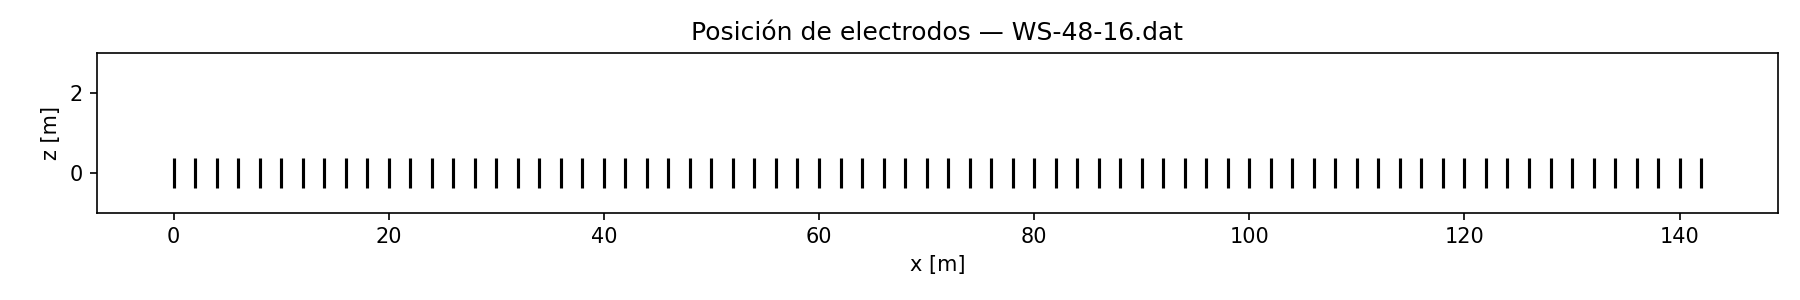
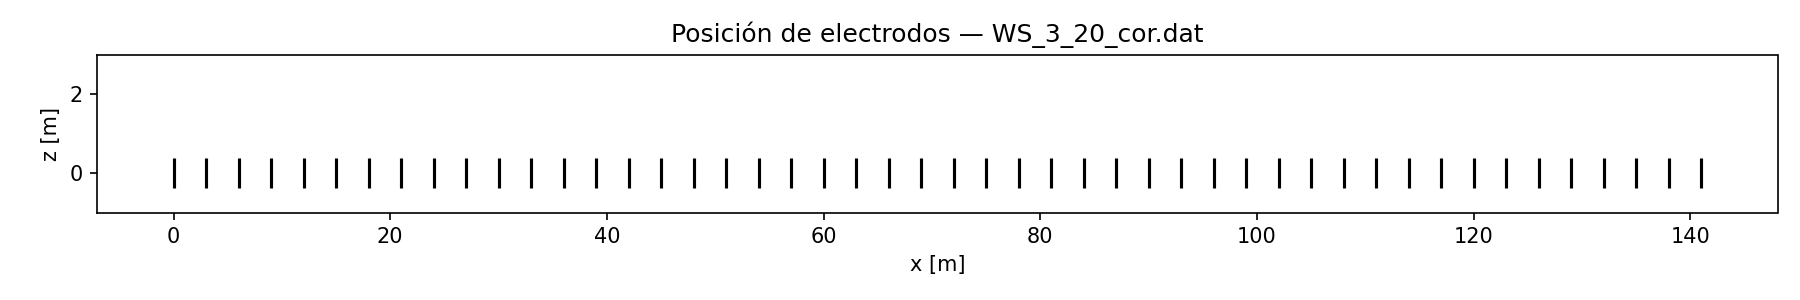
cambiar archivo de entrada

diff --git a/src/inversion.py b/src/inversion.py
@@ -1,10 +1,11 @@
 """
-Inversión ERT completa para archivo WS-48-16.dat
+Inversión ERT completa para archivo WS_3_20_cor.dat
 Configuración Wenner-Schlumberger con roll-along
 Sin topografía (z = 0 para todos los electrodos)
+Incluye datos de chargeability (IP) en mV/V
 
 Flujo:
-    1. Parseo del .dat  → coordenadas absolutas + rhoa
+    1. Parseo del .dat  → coordenadas absolutas + rhoa + chargeability
     2. Construcción del DataContainer de pyGIMLi
     3. Factores geométricos (analíticos, sin topo)
     4. Estimación de errores
@@ -25,7 +26,7 @@ from pygimli.physics import ert
 # CONFIGURACIÓN
 # ---------------------------------------------------------------------------
 
-DAT_FILE = os.path.join(os.path.dirname(__file__), '../data/greenland/WS-48-16.dat')
+DAT_FILE = os.path.join(os.path.dirname(__file__), '../data/greenland/WS_3_20_cor.dat')
 IMG_DIR  = os.path.join(os.path.dirname(__file__), '../img')
 os.makedirs(IMG_DIR, exist_ok=True)
 
@@ -58,14 +59,18 @@ def parse_dat(filepath):
         4: descripción del tipo de dato
         5: tipo (0 = rhoa, 1 = resistencia)
         6: número de mediciones
-        7-8: parámetros adicionales
+        7: parámetro adicional
+        8: flag de chargeability (0 = sin IP, 1 = con IP en mV/V)
 
-    Estructura de cada línea de datos (a partir de línea 9):
+    Si hay chargeability (línea 8 == 1), hay 3 líneas extra de cabecera:
+        9:  nombre del parámetro IP (e.g. "Chargeability")
+        10: unidad (e.g. "mV/V")
+        11: ventana de integración (e.g. "0.06,0.5")
+    Y los datos empiezan en línea 12 con 11 campos:
+        4  x_A  z_A  x_B  z_B  x_M  z_M  x_N  z_N  rhoa  chargeability
+
+    Sin chargeability los datos empiezan en línea 9 con 10 campos:
         4  x_A  z_A  x_B  z_B  x_M  z_M  x_N  z_N  valor
-
-        Donde A, B = electrodos de corriente
-              M, N = electrodos de potencial
-              valor = rhoa [Ohm·m] si tipo==0, o R [Ohm] si tipo==1
     """
     print(f"\n{'='*60}")
     print(f"  Leyendo: {os.path.basename(filepath)}")
@@ -74,21 +79,27 @@ def parse_dat(filepath):
     with open(filepath, 'r', encoding='latin-1') as f:
         lines = [l.strip() for l in f.readlines()]
 
-    meas_type = int(lines[5])   # 0=rhoa, 1=resistencia
-    n_data    = int(lines[6])
+    meas_type   = int(lines[5])   # 0=rhoa, 1=resistencia
+    n_data      = int(lines[6])
+    has_ip      = int(lines[8])   # 0=sin IP, 1=con chargeability
+    data_start  = 12 if has_ip else 9
+    n_fields    = 11 if has_ip else 10
+
     print(f"  Tipo de dato   : {'resistividad aparente [Ohm·m]' if meas_type == 0 else 'resistencia [Ohm]'}")
     print(f"  Mediciones     : {n_data}")
+    print(f"  Chargeability  : {'sí (mV/V)' if has_ip else 'no'}")
 
     raw_meas = []
-    for line in lines[9:]:
+    for line in lines[data_start:]:
         parts = line.split()
-        if len(parts) == 10 and parts[0] == '4':
+        if len(parts) == n_fields and parts[0] == '4':
             xA, zA = float(parts[1]), float(parts[2])
             xB, zB = float(parts[3]), float(parts[4])
             xM, zM = float(parts[5]), float(parts[6])
             xN, zN = float(parts[7]), float(parts[8])
             val     = float(parts[9])
-            raw_meas.append(((xA, zA), (xB, zB), (xM, zM), (xN, zN), val))
+            ip      = float(parts[10]) if has_ip else None
+            raw_meas.append(((xA, zA), (xB, zB), (xM, zM), (xN, zN), val, ip))
 
     if len(raw_meas) != n_data:
         print(f"  ADVERTENCIA: se esperaban {n_data} mediciones pero se parsearon {len(raw_meas)}")
@@ -109,7 +120,7 @@ def parse_dat(filepath):
 
     # Convertir coordenadas a índices 0-based
     meas = []
-    for (pA, pB, pM, pN, val) in raw_meas:
+    for (pA, pB, pM, pN, val, ip) in raw_meas:
         meas.append({
             'a':    pos_to_idx[pA],
             'b':    pos_to_idx[pB],
@@ -117,16 +128,17 @@ def parse_dat(filepath):
             'n':    pos_to_idx[pN],
             'rhoa': val if meas_type == 0 else None,
             'r':    val if meas_type == 1 else None,
+            'ip':   ip,
         })
 
-    return sensors, meas, meas_type
+    return sensors, meas, meas_type, has_ip
 
 
 # ---------------------------------------------------------------------------
 # 2. CONSTRUCCIÓN DEL DataContainer
 # ---------------------------------------------------------------------------
 
-def build_data_container(sensors, meas, meas_type):
+def build_data_container(sensors, meas, meas_type, has_ip=False):
     """
     Construye un pg.DataContainer con sensores e índices de electrodos.
 
@@ -178,6 +190,11 @@ def build_data_container(sensors, meas, meas_type):
         r_arr = np.array([m['r'] for m in meas], dtype=float)
         data['r'] = pg.Vector(r_arr)
 
+    # Cargar chargeability si está presente
+    if has_ip:
+        ip_arr = np.array([m['ip'] for m in meas], dtype=float)
+        data['ip'] = pg.Vector(ip_arr)
+
     # Marcar como válidas las mediciones con valor positivo
     if meas_type == 0:
         data.markValid(data['rhoa'] > 0)
@@ -195,10 +212,10 @@ def build_data_container(sensors, meas, meas_type):
 if __name__ == '__main__':
 
     # --- 1. Parseo ---
-    sensors, meas, meas_type = parse_dat(DAT_FILE)
+    sensors, meas, meas_type, has_ip = parse_dat(DAT_FILE)
 
     # --- 2. DataContainer ---
-    data = build_data_container(sensors, meas, meas_type)
+    data = build_data_container(sensors, meas, meas_type, has_ip)
 
     # --- 3. Visualización inicial: posición de electrodos ---
     fig, ax = plt.subplots(figsize=(12, 2))
@@ -291,7 +308,7 @@ if __name__ == '__main__':
         cMap     = 'Spectral_r',
         logScale = True,
     )
-    ax.set_title('Modelo de resistividad — WS-48-16')
+    ax.set_title('Modelo de resistividad — WS_3_20_cor')
     ax.set_xlabel('Distancia [m]')
     ax.set_ylabel('Profundidad [m]')
     plt.tight_layout()

diff --git a/CLAUDE.md b/CLAUDE.md
@@ -10,8 +10,9 @@ El archivo de datos del ejemplo y el archivo de datos de trabajo difieren en su 
 
 El script de ejemplo de partida esta en examples/plot_02_ert_field_data.py
 El archivo con datos que espera este ejemplo es: examples/slagdump.ohm
-El archivo de trabajo sobre el que hay que editar, el responsable de hacer la adaptacion es src/inversion_WS48.py
-El archivo con datos para el script de trabajo esta en data/greenland/WS-48-16.dat
+El archivo de trabajo sobre el que hay que editar, el responsable de hacer la adaptacion es src/inversion.py
+El archivo con datos para el script de trabajo esta en data/greenland/WS_3_20_cor.dat
+Este archivo incluye datos de chargeability (IP) en mV/V además de resistividad aparente
 
 La estructura del repo es la siguiente:
 
@@ -42,7 +43,7 @@ La estructura del repo es la siguiente:
 │   └── 05_modelo_resistividad.png
 ├── README.md
 └── src
-    └── inversion_WS48.py (archivo principal)
+    └── inversion.py (archivo principal)
 
 
 ## Development Guidelines for Claude

diff --git a/doc/INSTALL.md b/doc/INSTALL.md
@@ -1,0 +1,15 @@
+# Instrucciones de instalacion
+
+* Instalar Conda con MiniForge
+* Instalar PyGIMLi
+
+```bash
+conda create -n pg -c gimli -c conda-forge "pygimli>=1.5.0"
+```
+* cargar datos del proyecto en **data/greenland/WS_3_20_cor.dat**
+* Ejecutar 
+
+```bash
+conda activate pg
+python src/inversion.py
+```
